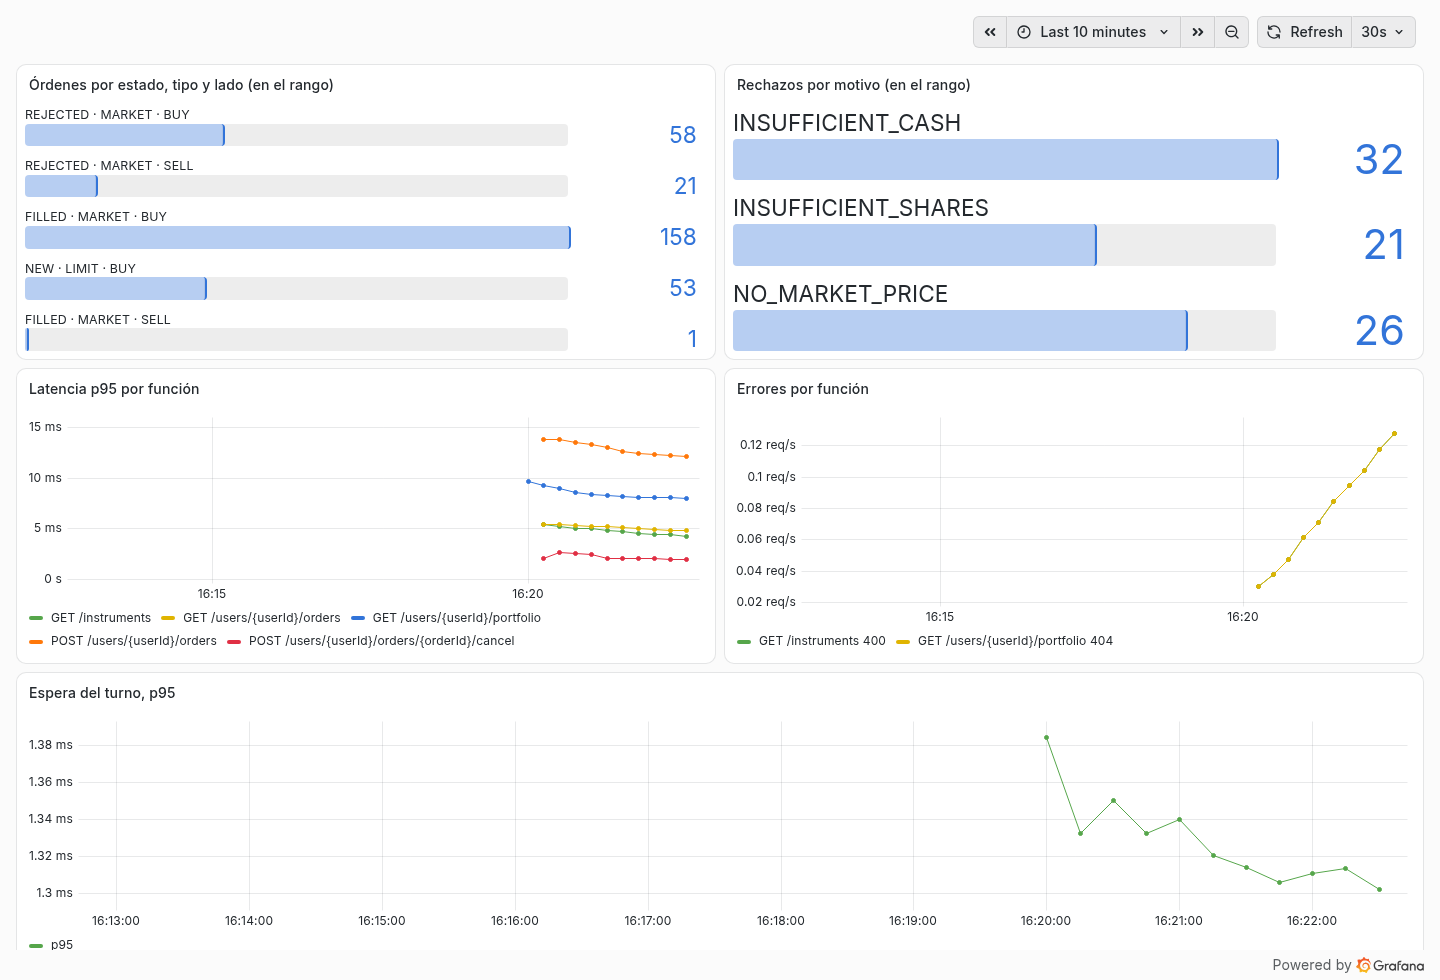
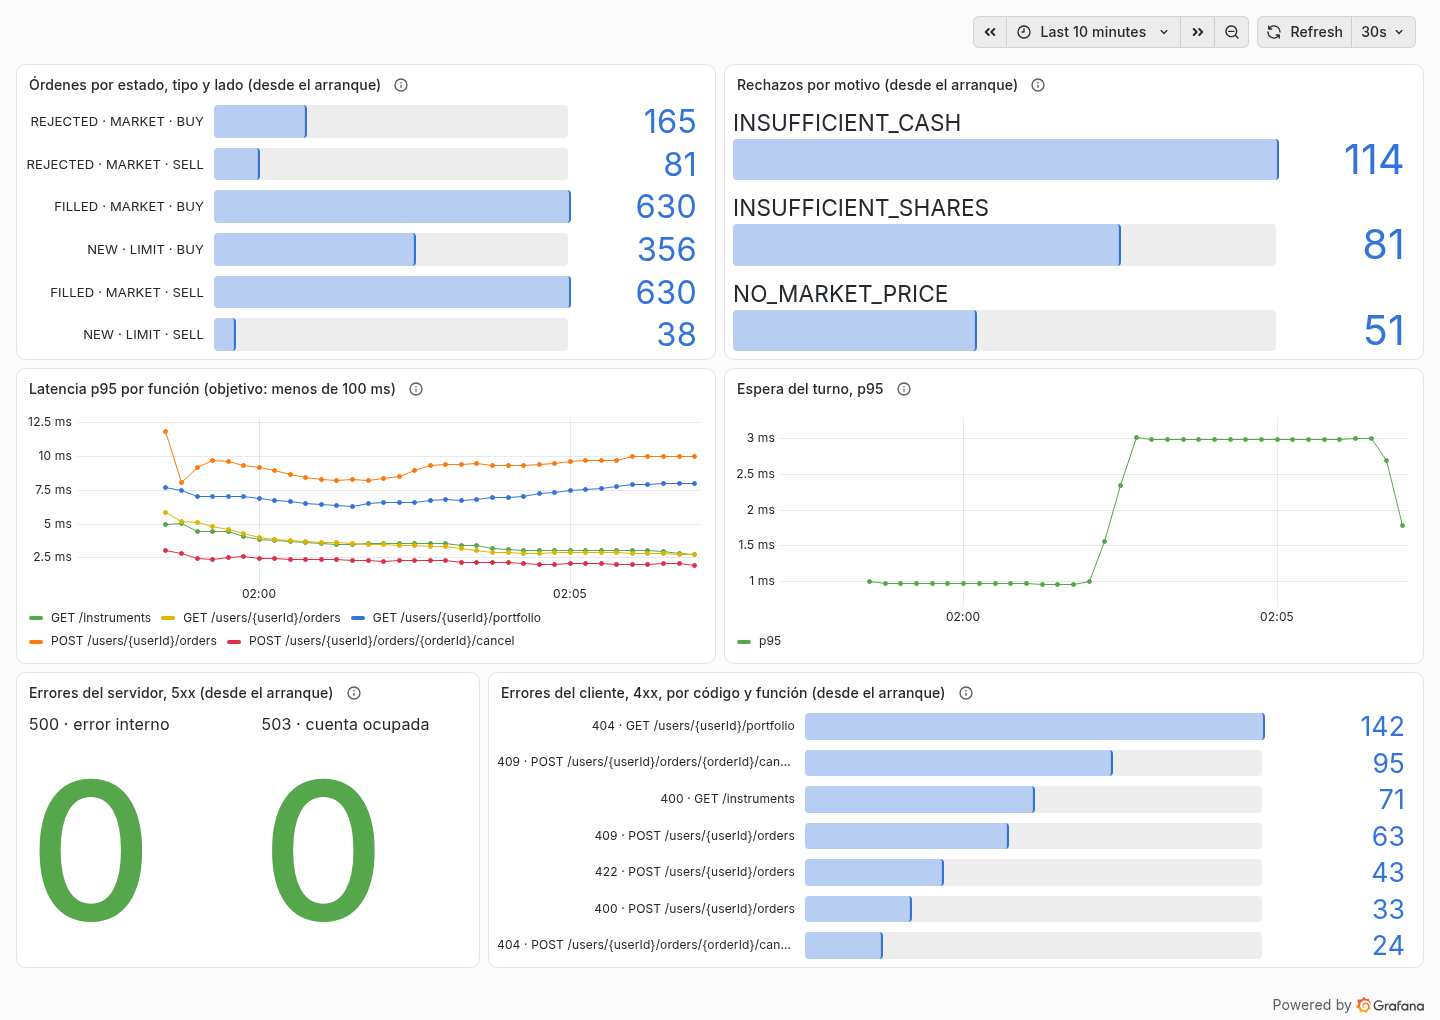
docs(portal): show the six panels and the alerts on the metrics page
The page takes both tables from the RFC. The capture is new: the adjusted
dashboard after ten minutes of sample traffic.

diff --git a/docs/portal/metricas.md b/docs/portal/metricas.md
@@ -8,18 +8,22 @@ Con todo levantado está en Grafana, en <http://localhost:3000>. Es la página d
 
 ![Tablero de Grafana de la API, con tráfico de ejemplo](img/tablero-grafana.png)
 
-La captura es de la API corriendo en local, con tráfico de ejemplo: los números cambian en cada corrida.
+La captura es de la API corriendo en local, después de diez minutos de tráfico de ejemplo: los números cambian en cada
+corrida. El tráfico trae errores del cliente a propósito. Y durante un minuto, desde las 02:01:40, manda tres órdenes del
+mismo usuario a la vez: se ve en la espera del turno, que pasa de 1 ms a 3 ms. Sigue así cinco minutos y después baja,
+porque cada punto mira los últimos cinco minutos.
 
-| Panel | Qué contesta |
-|---|---|
-| Órdenes por estado, tipo y lado | cuántas órdenes se ejecutan, quedan pendientes o se rechazan |
-| Rechazos por motivo | por qué se rechazan: faltan pesos, faltan acciones o el activo no cotiza |
-| Latencia p95 por función | cuánto tarda cada función, sin contar `/actuator/*` |
-| Errores por función | qué función devuelve errores, y con qué código |
-| Espera del turno, p95 | cuánto espera un envío el turno de su usuario: si crece, hay órdenes del mismo usuario chocando |
+Cada panel explica qué muestra en la "i" que está al lado de su título.
 
-Las órdenes y la espera del turno se ven desde el primer pedido. La latencia y los errores de cada función aparecen
-desde el segundo, con al menos 15 segundos entre los dos: Prometheus necesita dos lecturas para calcularlos.
+--8<-- "03-rfc.md:tablero"
+
+**Los errores van en dos paneles porque no significan lo mismo.** Un error del cliente (4xx) es la API diciéndole que no
+a un pedido que no se podía cumplir: la API funcionó. Un error del servidor (5xx) es una falla de la API: su panel está
+en verde mientras marca 0, y pasa a rojo con la primera.
+
+Los cuatro paneles que cuentan muestran todo lo que pasó desde que arrancó la API, desde el primer pedido. Los dos de
+líneas miran los últimos 5 minutos y necesitan dos lecturas de Prometheus, que lee cada 15 segundos: la latencia de una
+función aparece desde su segundo pedido, con al menos 15 segundos entre los dos.
 
 ## Qué mide la API
 
@@ -41,6 +45,14 @@ escenario manda 10 pedidos por segundo durante un minuto:
 Es una carga moderada, en una computadora de escritorio y con la base en memoria: sirve como orden de magnitud, y no
 dice cuántos pedidos aguanta la API. La máquina, los datos, los límites y cómo repetirla están en
 [la medición completa](../mediciones/06-tiempo-de-respuesta.md).
+
+## Qué se alertaría
+
+No hay alertas construidas: en una corrida local no hay a quién avisarle. Con estas mismas métricas, se alertaría esto:
+
+--8<-- "03-rfc.md:alertas"
+
+El criterio, sus números y de dónde sale: [RFC, sección 8.5](../03-rfc.md#85-qué-se-alertaría).
 
 ## En producción, con New Relic
 
